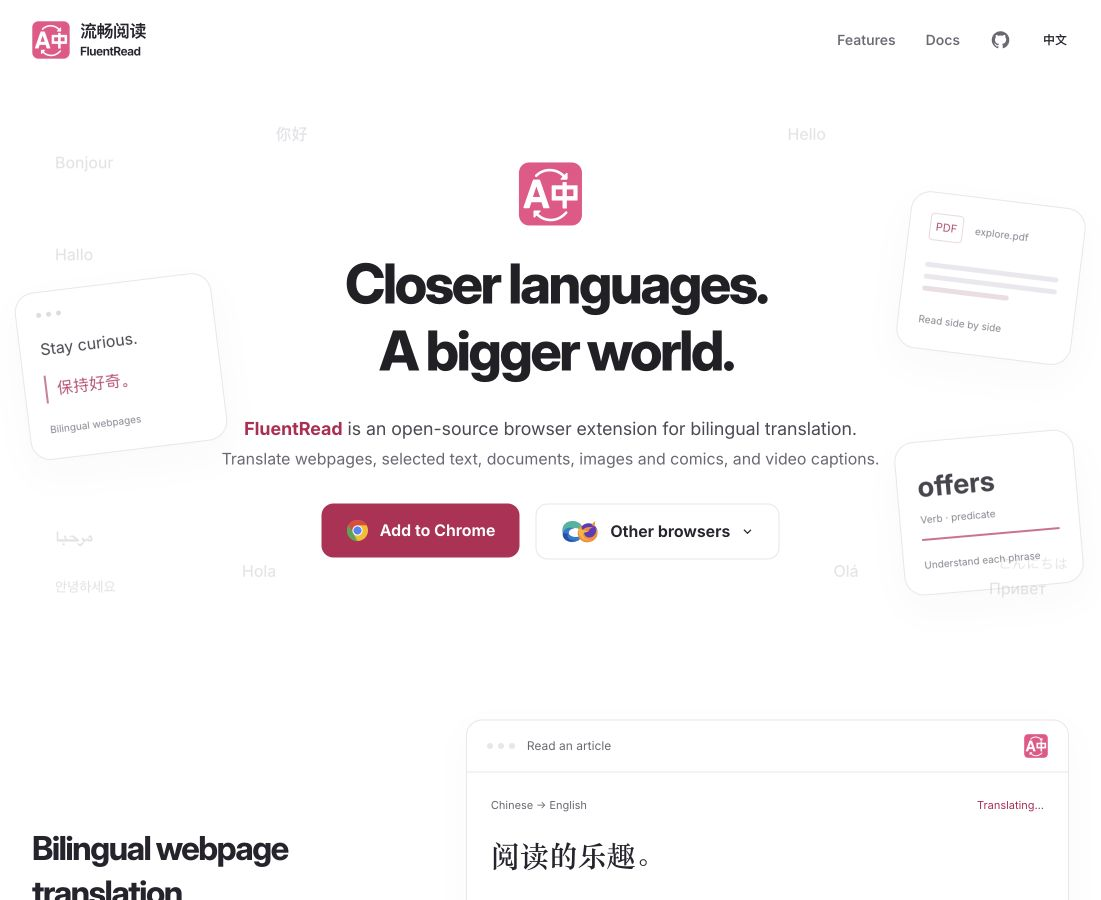
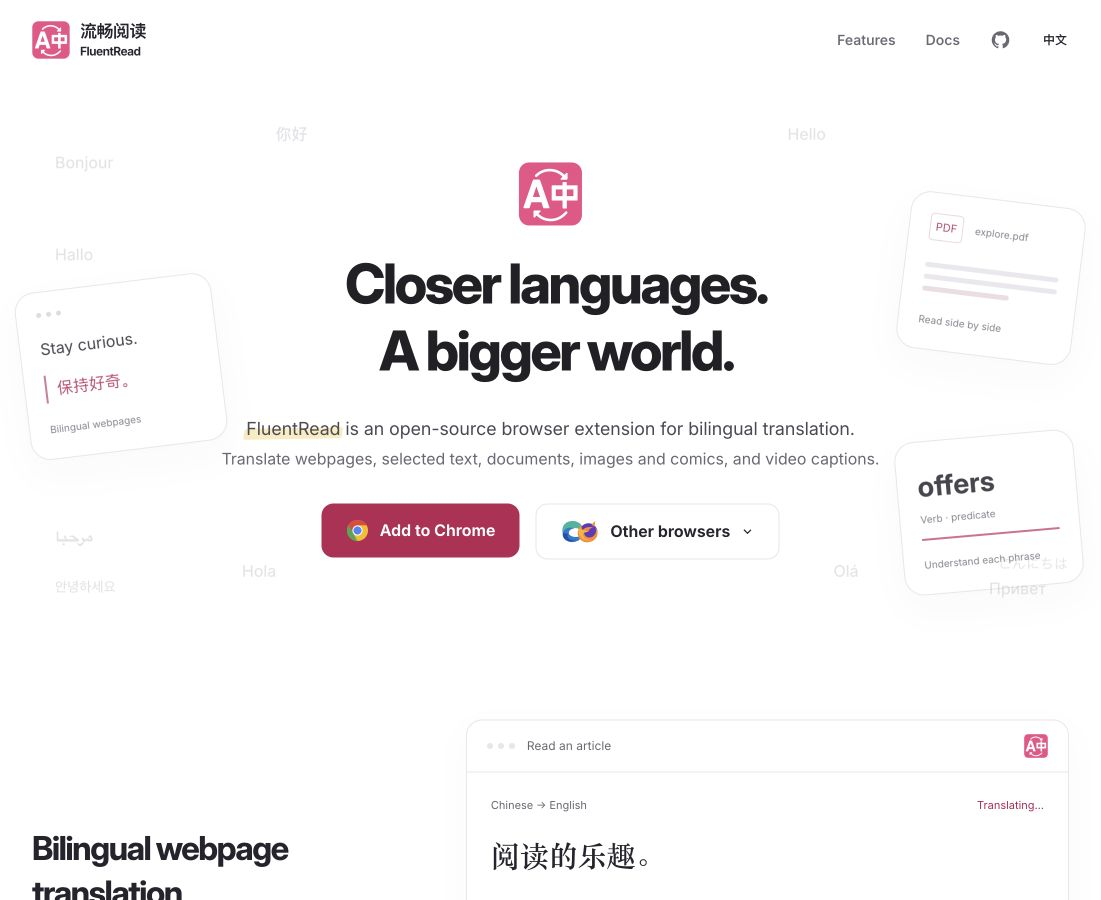
style(site): use a subtle marker stroke for the product name

Changed region(s): [[0.2162, 0.4667, 0.772, 0.4978]]

diff --git a/docs/.vitepress/theme/homepage.css b/docs/.vitepress/theme/homepage.css
@@ -80,9 +80,18 @@
   font-size: 18px;
 }
 .bv-hero-name {
-  color: var(--vp-c-brand-1);
-  font-weight: 700;
+  position: relative;
+  isolation: isolate;
   white-space: nowrap;
+}
+.bv-hero-name::before {
+  content: '';
+  position: absolute;
+  z-index: -1;
+  inset: 48% -0.12em 0.03em;
+  border-radius: 0.2em 0.1em 0.18em 0.08em;
+  background: #f4d8787a;
+  transform: skewX(-8deg) rotate(-1deg);
 }
 .bv-hero-capabilities > span {
   display: inline-block;

diff --git a/docs/.vitepress/theme/SiteHome.vue b/docs/.vitepress/theme/SiteHome.vue
@@ -116,7 +116,7 @@ const faqs = [
           >
         </h1>
         <p class="bv-hero-intro">
-          <span><strong class="bv-hero-name">{{ t('流畅阅读', 'FluentRead') }}</strong>{{
+          <span><span class="bv-hero-name">{{ t('流畅阅读', 'FluentRead') }}</span>{{
             t(
               '，一款开源的浏览器双语翻译插件',
               ' is an open-source browser extension for bilingual translation.'

diff --git a/docs/reports/site-floating-cards-20261004/verification.md b/docs/reports/site-floating-cards-20261004/verification.md
@@ -9,7 +9,7 @@ The user requested the original tilted floating cards instead of margin notes, a
 - Central hero geometry, localized wording and ten greeting placements remain unchanged; cards stay hidden at widths up to 1100px as before.
 - Restored FeatureDemo to its silent version from `c36f7f89`. Clicking original/translation selects the appropriate visual demonstration and pauses autoplay; labels and the note explicitly identify a silent preview.
 - Removed the website-only speech helper, its tests and test-matrix entry, and restored the documentation verifier's preview-control contract. Extension read-aloud code was not changed.
-- Highlighted the inline product name (流畅阅读 / FluentRead) with the existing brand color and 700 font weight, keeping the introduction wording and font size. The product name stays together on narrow screens.
+- Highlighted the inline product name (流畅阅读 / FluentRead) with a pale yellow marker stroke behind the lower half of the letters. The text retains its original color, weight and size, and stays together on narrow screens. The decorative stroke occupies no layout space.
 
 ## Verification
 
@@ -18,11 +18,11 @@ The user requested the original tilted floating cards instead of margin notes, a
 - Test registration audit: passed; 453 files and 5804 cases. This was the registration audit, not execution of the full test suite.
 - The compiled website JavaScript contains no `speechSynthesis`, `SpeechSynthesisUtterance` or `createDemoSpeech` reference.
 - Chinese and English viewports: 320, 390, 760, 1100, 1101, 1280 and 1440px. No horizontal overflow; cards are visible on desktop and hidden below their original breakpoint; the 64px hero icon and ten greetings remain.
-- Before the additional inline brand emphasis, repeated 1280px hero samples showed moving cards with identical central geometry matching the previous production layout. The final change retains the hero structure and dimensions and adjusts only the product name's inline color and weight.
+- Before the additional inline brand emphasis, repeated 1280px hero samples showed moving cards with identical central geometry matching the previous production layout. The final change retains the hero structure and adds a decorative marker stroke behind the inline product name.
 - Original/translation preview clicks in both languages select steps 3/4, update pressed/highlight state, pause autoplay, keep the demo frame at the same size and show the silent-preview note. No speech state is present.
 - Moving to the selection section pauses all three hero-card animations. Reduced-motion CSS disables the restored animation.
 - Final browser warning/error logs were empty. Verification used a background in-app browser and responsive viewport overrides, not a physical phone test.
 - The local preview server was restarted after a subsequent build so the final checks used the final asset set; intermediate unstyled samples are excluded from the report.
-- After the additional product-name change, docs typecheck, production build, link/asset checks and diff checks passed again. Chinese and English at 320, 390, 1101 and 1280px show the localized name in rgb(185, 34, 82), 700 weight, unchanged 15/18px font size and zero horizontal overflow. Updated hero screenshots use this final build.
+- After the additional product-name change, docs typecheck, production build, link/asset checks and diff checks passed again. Chinese and English at 320, 390, 1101 and 1280px retain the localized name in rgb(78, 73, 84), 400 weight and 15/18px font size, with a yellow rgba(244, 216, 120, 0.48) marker and zero horizontal overflow. Updated hero screenshots use this final build.
 
 Screenshots: [Desktop](desktop.png), [Mobile](mobile.png), [Silent selection preview](selection.png), [Narrow English desktop](en-1101.png). [Restoration measurements](measurements.json). [Final brand measurements](brand-measurements.json).
